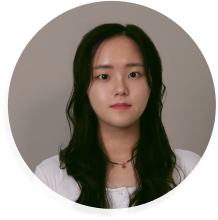
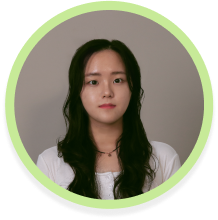
up

diff --git a/index.html b/index.html
@@ -518,9 +518,9 @@
         <div class="profileimg">
             <div class="profile-item">
                 <div class="profile-circle">
-                    <div class="circle-shape">
+                 
                         <img src="img/서연우.png" alt="Profile 1">
-                    </div> <!-- 원 -->
+              
                     
                 </div>
                 <p>
@@ -531,9 +531,9 @@
             </div>
             <div class="profile-item">
                 <div class="profile-circle">
-                    <div class="circle-shape">
+                 
                         <img src="img/권규린.png" alt="Profile 2">
-                    </div> <!-- 원 -->
+                   
                     
                 </div>
                 <p>
@@ -544,9 +544,9 @@
             </div>
             <div class="profile-item">
                 <div class="profile-circle">
-                    <div class="circle-shape"> 
+               
                         <img src="img/박소정.png" alt="Profile 3">
-                    </div> <!-- 원 -->
+                   <!-- 원 -->
                    
                 </div>
                 <p>
@@ -557,10 +557,9 @@
             </div>
             <div class="profile-item">
                 <div class="profile-circle">
-                    <div class="circle-shape">
+                   
                         <img src="img/이경진.png" alt="Profile 4">
-                    </div> <!-- 원 -->
-                    
+                 
                 </div>
                 <p>
                     <span class="name">이경진</span><br>
@@ -570,9 +569,9 @@
             </div>
             <div class="profile-item">
                 <div class="profile-circle">
-                    <div class="circle-shape">
+                  
                         <img src="img/정해린.png" alt="Profile 5">
-                    </div> <!-- 원 -->
+             
                     
                 </div>
                 <p>
@@ -583,9 +582,9 @@
             </div>
             <div class="profile-item">
                 <div class="profile-circle">
-                    <div class="circle-shape">
+                
                         <img src="img/임승현.png" alt="Profile 6">
-                    </div> <!-- 원 -->
+                 
                     
                 </div>
                 <p>

diff --git a/style.css b/style.css
@@ -1269,21 +1269,21 @@ a {
 
 .thumbnail-container {
     position: relative;
-    margin: 0 80px;
+    margin: 0 40px;
 }
 /* 첫 번째와 두 번째 슬라이더 위치 조정 */
 #greenhouse-slider-1 .slider,
 #greenhouse-slider-2 .slider {
  background-color: #FBFFE5;
-padding-left: 400px; /* 기존 500px에서 400px로 줄여서 왼쪽으로 이동 */
+padding-left: 350px; /* 기존 500px에서 400px로 줄여서 왼쪽으로 이동 */
 }
 
 #greenhouse-slider-3, #greenhouse-slider-4 {
     background-color: #FBFFE5;
-padding-left: 700px; /* 오른쪽으로 이동하는 패딩 추가 */
+padding-left: 900px; /* 오른쪽으로 이동하는 패딩 추가 */
 }
 .slide img {
-    width: 200px;
+    width: 240px;
     height: auto;
     cursor: pointer;
     transition: transform 0.3s ease, opacity 0.3s ease;
@@ -1293,7 +1293,7 @@ padding-left: 700px; /* 오른쪽으로 이동하는 패딩 추가 */
     position: absolute;
     width: max-content;
     text-align: left; /* 좌측 정렬 */
-    margin-left: 80px;
+    margin-left: 45px;
     color: #3E7443;
     opacity: 0;
     transition: opacity 0.3s ease;
@@ -1311,7 +1311,7 @@ padding-left: 700px; /* 오른쪽으로 이동하는 패딩 추가 */
 }
 
 .selected {
-    transform: scale(1.8);
+    transform: scale(1.5);
     transform-origin: center;
     z-index: 10;
 }
@@ -1327,7 +1327,7 @@ padding-left: 700px; /* 오른쪽으로 이동하는 패딩 추가 */
 .thumbnail.faded {
 transform: translateY(10px); /* 선택되지 않은 이미지들을 아래로 이동 */
 opacity: 0.5; /* 선택되지 않은 이미지의 투명도 조정 */
-margin-top: 60%;
+margin-top: 40%;
 }
         #information {
     display: flex;
